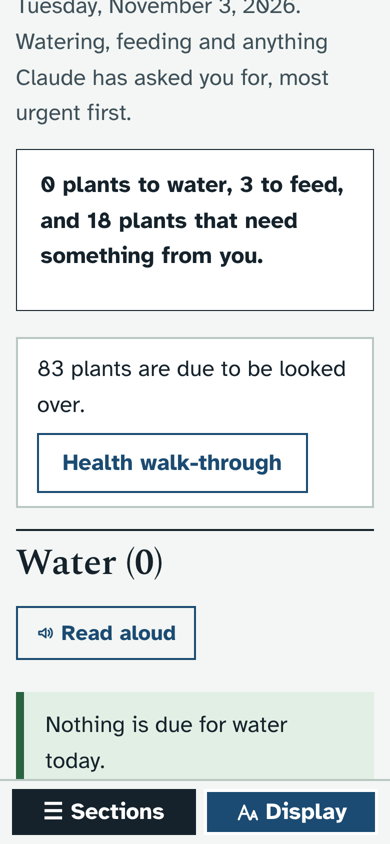
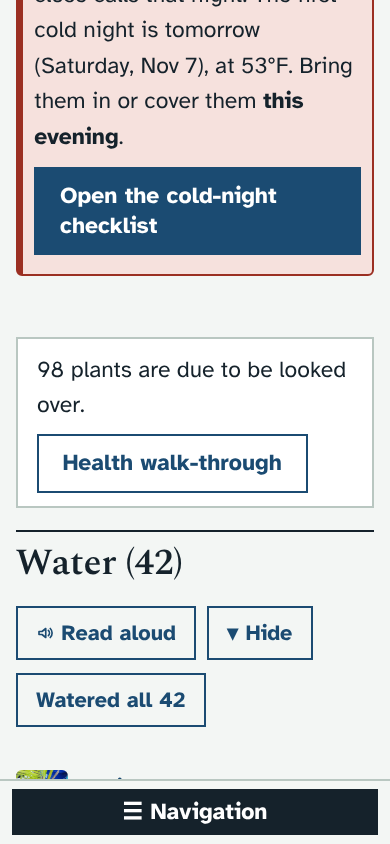
Health walk-through: new screenshots on 1.42.0; offline saves leave the message to the offline layer (no doubled toast)
Claude-Session: https://claude.ai/code/session_01LbEUtGi6MmneSYiB4Mb19P

diff --git a/app/static/js/checkup.js b/app/static/js/checkup.js
@@ -174,7 +174,7 @@ Object.assign(changeActs, {
       if (ph) { p.photo = ph.file; p.newphoto = true; }
       p.pics = (p.pics || 0) + files.length;
       const box = document.getElementById('ck-pic'); if (box) box.innerHTML = rend(ckPhotoHtml(p));
-      toast(r && r.offline ? `Photo kept on this device for ${p.code}. It is sent when the connection is back.` : `Photo added to ${p.code}`);
+      if (!(r && r.offline)) toast(`Photo added to ${p.code}`);
     });
     el.value = '';
   },
@@ -217,7 +217,7 @@ Object.assign(formActs, {
       }
       const text = changed ? `health ${p.health || 'not set'} to ${nh}` : 'looks the same';
       const cr = await api('POST', '/api/care', { plant: p.code, kind: 'looked', note: (changed ? `Health ${p.health || 'not set'} to ${nh}` : 'Looks the same') + (note ? '. ' + note : '') });
-      toast(cr && cr.offline ? `Kept on this device: ${p.code} ${text}. It is sent when the connection is back.` : `Saved: ${p.code} ${text}`);   // 1.38.0 offline: the saves wait like other care
+      if (!(cr && cr.offline)) toast(`Saved: ${p.code} ${text}`);   // offline (1.38.0), the save waits like other care, and the offline layer says so itself
       ckNext({ kind: changed ? 'changed' : 'same', now: nh, was: p.health, text: text + (note ? ` ("${note}")` : '') });
     } catch (e) {
       if (btn) btn.disabled = false;

diff --git a/docs/prototypes/health-walk.md b/docs/prototypes/health-walk.md
@@ -39,7 +39,7 @@ Each plant has a health rating (Good, Fair, Poor or Critical). With about 85 pla
 - A health rating changed on the Edit page also counts as looking the plant over. Ratings set by Claude's upgrade batches don't.
 - People with view-only access can see the list of due plants, but can't start a walk.
 - **With 1.42.0:** the walk-through page's sections and the group page's Health walk-through section are in the Navigation menu, each with a Show or hide button. On the walk itself the plant's name is a heading but not a page section, so the card has no Show or hide button and the Navigation menu stays out of the way.
-- **With no connection** (1.38.0 offline use): saves, new ratings and photos wait on the device like other care, and are sent when the connection is back; the message after saving says so. Opening the walk-through needs the connection, or a copy kept on the device.
+- **With no connection** (1.38.0 offline use): saves, new ratings and photos wait on the device like other care, and are sent when the connection is back, with the app's usual message saying so. Opening the walk-through needs the connection, or a copy kept on the device.
 
 ## How it looks
 Choosing the plants, on a laptop:
